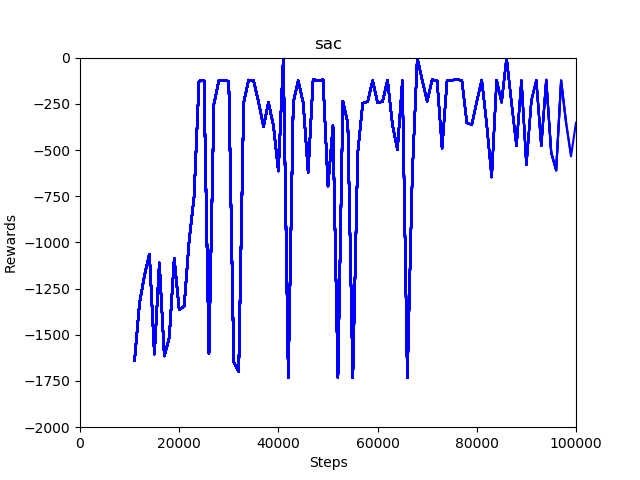
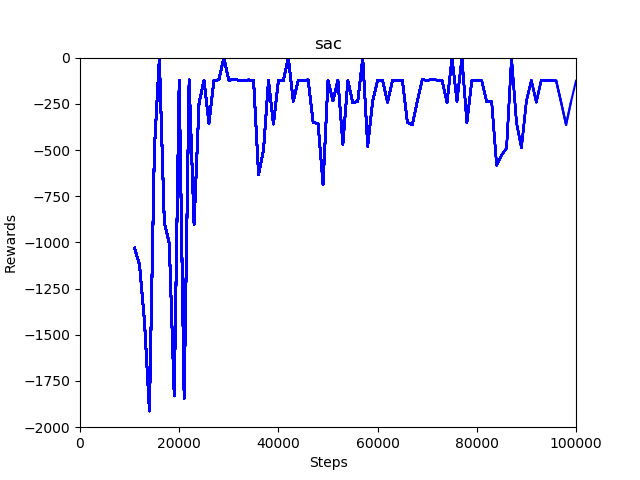
Improve SAC calculation and documentation
Fixes #2

Changed region(s): [[0.1875, 0.125, 0.9062, 0.8438]]

diff --git a/models.py b/models.py
@@ -1,7 +1,7 @@
 import copy
 import torch
 from torch import nn
-from torch.distributions import Normal
+from torch.distributions import Distribution, Normal
 
 
 class Actor(nn.Module):
@@ -19,29 +19,37 @@ class Actor(nn.Module):
     return policy
 
 
-class TanhNormal(Normal):
-  def rsample(self):
-    return torch.tanh(self.loc + self.scale * torch.randn_like(self.scale))
+class TanhNormal(Distribution):
+  def __init__(self, loc, scale):
+    super().__init__()
+    self.normal = Normal(loc, scale)
 
   def sample(self):
-    return self.rsample().detach()
+    return torch.tanh(self.normal.sample())
 
+  def rsample(self):
+    return torch.tanh(self.normal.rsample())
+
+  # Calculates log probability of value using the change-of-variables technique (uses log1p = log(1 + x) for extra numerical stability)
   def log_prob(self, value):
-    return super().log_prob(torch.atan(value)) - torch.log(1 - value.pow(2) + 1e-8) 
+    inv_value = (torch.log1p(value) - torch.log1p(-value)) / 2  # artanh(y)
+    return self.normal.log_prob(inv_value) - torch.log1p(-value.pow(2) + 1e-6)  # log p(f^-1(y)) + log |det(J(f^-1(y)))|
 
   @property
   def mean(self):
-    return torch.tanh(super().mean)
+    return torch.tanh(self.normal.mean)
 
 
 class SoftActor(nn.Module):
   def __init__(self, hidden_size):
     super().__init__()
+    self.log_std_min, self.log_std_max = -20, 2  # Constrain range of standard deviations to prevent very deterministic/stochastic policies
     layers = [nn.Linear(3, hidden_size), nn.Tanh(), nn.Linear(hidden_size, hidden_size), nn.Tanh(), nn.Linear(hidden_size, 2)]
     self.policy = nn.Sequential(*layers)
 
   def forward(self, state):
     policy_mean, policy_log_std = self.policy(state).chunk(2, dim=1)
+    policy_log_std = torch.clamp(policy_log_std, min=self.log_std_min, max=self.log_std_max)
     policy = TanhNormal(policy_mean, policy_log_std.exp())
     return policy
 

diff --git a/sac.py b/sac.py
@@ -60,7 +60,7 @@ for step in pbar:
     y_q = batch['reward'] + DISCOUNT * (1 - batch['done']) * target_value_critic(batch['next_state'])
     policy = actor(batch['state'])
     action = policy.rsample()  # a(s) is a sample from μ(·|s) which is differentiable wrt θ via the reparameterisation trick
-    weighted_sample_entropy = (ENTROPY_WEIGHT * policy.log_prob(action)).sum(dim=1)
+    weighted_sample_entropy = ENTROPY_WEIGHT * policy.log_prob(action).sum(dim=1)  # Note: in practice it is more numerically stable to calculate the log probability when sampling an action to avoid inverting tanh
     y_v = torch.min(critic_1(batch['state'], action.detach()), critic_2(batch['state'], action.detach())) - weighted_sample_entropy.detach()
 
     # Update Q-functions by one step of gradient descent
@@ -76,7 +76,7 @@ for step in pbar:
     value_critic_optimiser.step()
 
     # Update policy by one step of gradient ascent
-    policy_loss = -(critic_1(batch['state'], action) + weighted_sample_entropy).mean()
+    policy_loss = (weighted_sample_entropy - critic_1(batch['state'], action)).mean()
     actor_optimiser.zero_grad()
     policy_loss.backward()
     actor_optimiser.step()
